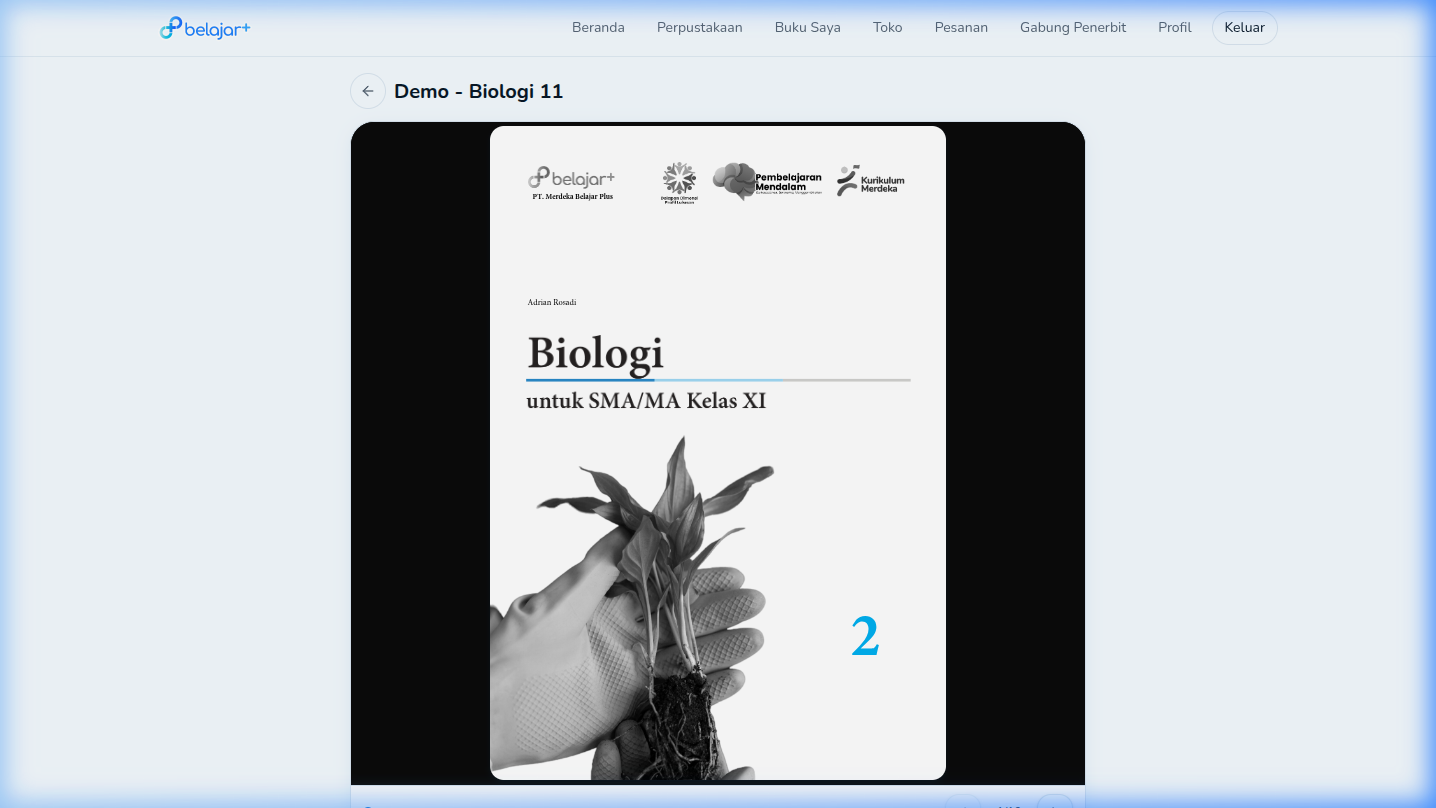
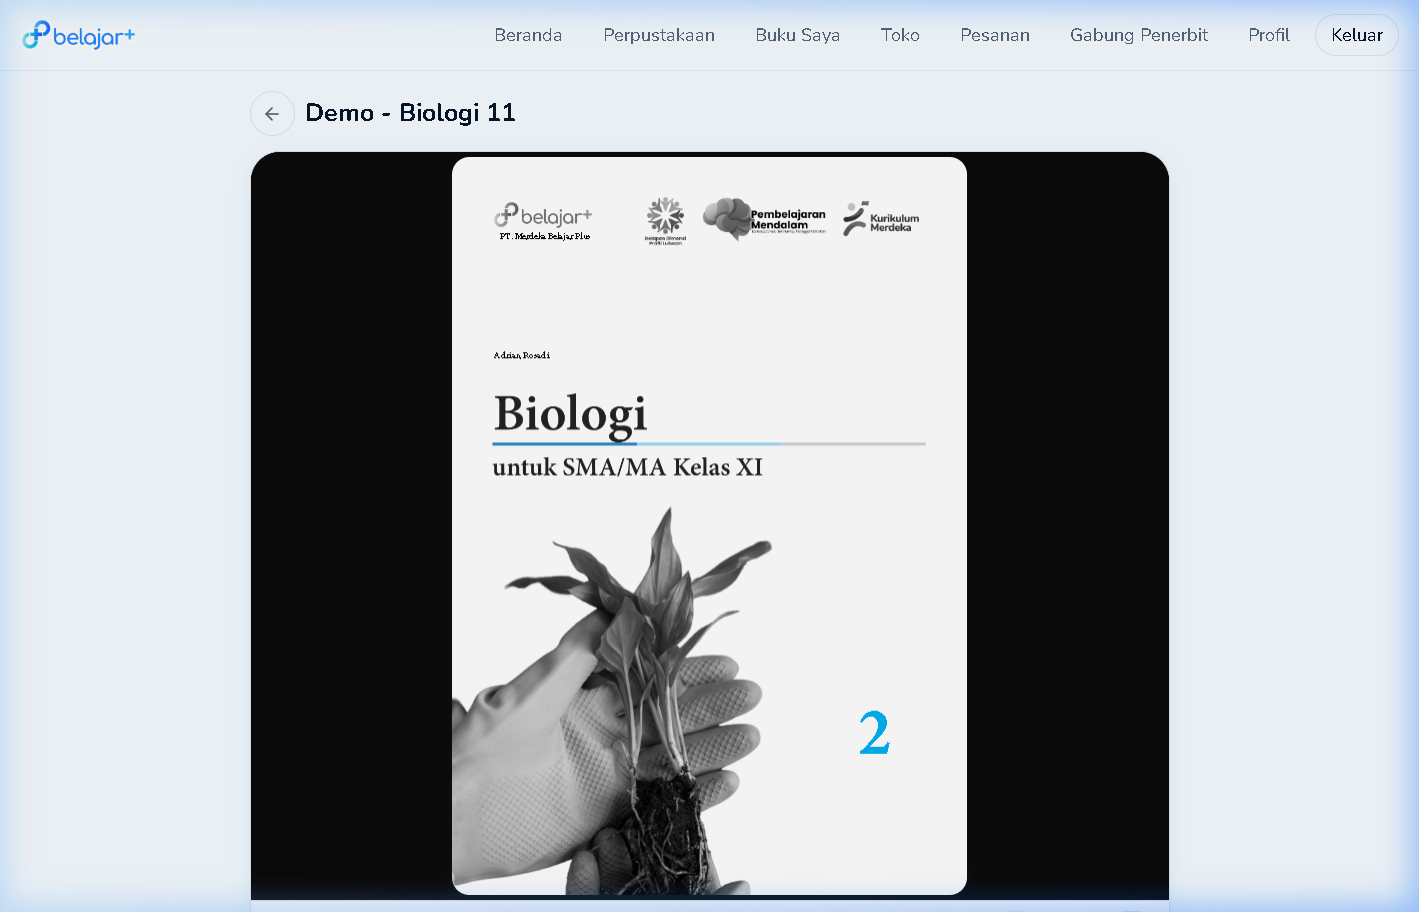
feat: complete student tutorial deep dive with bug warnings and screenshots

Changed region(s): [[0.0, 0.0, 1.0, 1.0], [0.5891, 0.7426, 0.6202, 0.8354]]

diff --git a/index.html b/index.html
@@ -317,165 +317,91 @@
           </div>
           
 <div class="step" data-step="4">
-            <div class="step-number">04</div>
-            <div class="step-content">
-              <div class="step-header">
-                <h3>Cari &amp; Filter Koleksi Buku Digital</h3>
-                <span class="step-tag">Perpustakaan</span>
+              <div class="step-number">04</div>
+              <div class="step-content">
+                <div class="step-header">
+                  <h3>Perpustakaan Digital &amp; E-Reader Interaktif</h3>
+                  <span class="step-tag">Perpustakaan</span>
+                </div>
+                <p>Klik menu <strong>"Perpustakaan"</strong> untuk mencari buku paket atau referensi. Gunakan kotak pencarian, atau filter berdasarkan Jenjang dan Mata Pelajaran.</p>
+                <div class="step-note" style="margin-bottom: 1rem;">
+                  dY"O <strong>Bug Report:</strong> Saat klik "Jelajahi &amp; filter" dari hasil pencarian, parameter query text seringkali hilang/reset. Sebaiknya gunakan filter dari sidebar langsung.
+                </div>
+                <p>Klik sampul buku untuk melihat detail dan sinopsis, lalu klik <strong>"Baca Buku"</strong> untuk membuka E-Reader. Di dalam E-Reader, kamu bisa membalik halaman secara mulus dan menandai halaman (bookmark).</p>
               </div>
-              <p>Klik menu <strong>"Perpustakaan"</strong> di navigation bar atas. Gunakan kolom pencarian atau filter sidebar kiri untuk menyaring buku berdasarkan Jenjang (Kelas 10, 11, 12) dan Mata Pelajaran.</p>
-              <ul class="step-list">
-                <li><strong>Filter Jenjang</strong> — Saring buku sesuai tingkatan kelasmu</li>
-                <li><strong>Filter Mapel</strong> — Cari buku spesifik (Biologi, Matematika, Antropologi, dll.)</li>
-              </ul>
-              <div class="step-note">
-                📌 Tag filter aktif membantu menyaring ketersediaan buku digital sekolah secara real-time.
+              <div class="step-visual" style="display: block; width: 100%;">
+                <div style="display: block; width: 100%; margin-bottom: 2rem; page-break-inside: avoid;">
+                  <img src="assets/library_search.png" class="screenshot-img" alt="Pencarian Perpustakaan" style="display: block; width: 100%; height: auto; box-shadow: 0 4px 12px rgba(0,0,0,0.1); border-radius: 8px;" />
+                </div>
+                <div class="html2pdf__page-break"></div>
+                <div style="display: block; width: 100%; margin-bottom: 2rem; page-break-inside: avoid;">
+                  <div style="font-weight: bold; margin-bottom: 0.5rem; color: var(--text-dark);">Tampilan E-Reader:</div>
+                  <img src="assets/book_reader.png" class="screenshot-img" alt="E-Reader BelajarPlus" style="display: block; width: 100%; height: auto; box-shadow: 0 4px 12px rgba(0,0,0,0.1); border-radius: 8px;" />
+                </div>
               </div>
             </div>
-            <div class="step-visual">
-              <img src="assets/search_filter.png" class="screenshot-img" alt="Filter Buku Digital Siswa" />
+
+            <div class="step" data-step="5">
+              <div class="step-number">05</div>
+              <div class="step-content">
+                <div class="step-header">
+                  <h3>Manajemen Koleksi Buku Saya</h3>
+                  <span class="step-tag">Koleksi Siswa</span>
+                </div>
+                <p>Masuk ke menu <strong>"Buku Saya"</strong> untuk melihat buku-buku yang sedang kamu pinjam, ditugaskan oleh guru, atau dalam antrean peminjaman (jika lisensi sekolah penuh).</p>
+                <div class="step-note">
+                  dY' <strong>Bug Report:</strong> Terkadang angka jumlah buku di tab atas tidak sinkron dengan jumlah list buku di bawahnya.
+                </div>
+              </div>
+              <div class="step-visual" style="display: block; width: 100%; page-break-inside: avoid;">
+                <img src="assets/my_books_list.png" class="screenshot-img" alt="Menu Buku Saya" style="display: block; width: 100%; height: auto; box-shadow: 0 4px 12px rgba(0,0,0,0.1); border-radius: 8px;" />
+              </div>
+            </div>
+
+            <div class="step" data-step="6">
+              <div class="step-number">06</div>
+              <div class="step-content">
+                <div class="step-header">
+                  <h3>Kelas &amp; Pengerjaan Ujian (LJD)</h3>
+                  <span class="step-tag">Penugasan &amp; Ujian</span>
+                </div>
+                <p>Di dalam kelas yang kamu ikuti, kamu bisa memantau Pengumuman, Sumber Belajar (modul wajib dari guru), dan Penugasan. Klik tab <strong>Aktivitas Belajar</strong> untuk melihat dan memulai Tryout, Latihan, atau UTS.</p>
+                <div class="step-note">
+                  dY"S <strong>Bug Kritis:</strong> Jika guru menugaskan lembar latihan tanpa soal (0 soal), tombol mulai akan mengakibatkan sistem <strong>Infinite Loading (Macet/Stuck)</strong> tanpa batas! Jangan refresh halaman, langsung kembali ke dashboard.
+                </div>
+              </div>
+              <div class="step-visual" style="display: block; width: 100%; page-break-inside: avoid;">
+                <img src="assets/assignment_list.png" class="screenshot-img" alt="Detail Kelas dan Ujian" style="display: block; width: 100%; height: auto; box-shadow: 0 4px 12px rgba(0,0,0,0.1); border-radius: 8px;" />
+              </div>
+            </div>
+
+            <div class="step" data-step="7">
+              <div class="step-number">07</div>
+              <div class="step-content">
+                <div class="step-header">
+                  <h3>Profil, Toko &amp; Riwayat Pesanan</h3>
+                  <span class="step-tag">Akun &amp; Marketplace</span>
+                </div>
+                <p>Lengkapi profil kamu agar terhubung dengan absensi sekolah. Jika sekolah tidak memiliki lisensi, kamu bisa membeli paket/buku secara mandiri melalui menu <strong>Toko</strong>. Cek status pembelianmu di menu <strong>Pesanan Saya</strong>.</p>
+                <div class="step-note">
+                  dY' <strong>Isu Minor:</strong> Navigasi URL secara manual ke <code>/orders</code> akan melempar kamu kembali ke halaman login (redirection loop bug) walaupun kamu sudah masuk.
+                </div>
+              </div>
+              <div class="step-visual" style="display: block; width: 100%;">
+                <div style="display: block; width: 100%; margin-bottom: 2rem; page-break-inside: avoid;">
+                  <div style="font-weight: bold; margin-bottom: 0.5rem; color: var(--text-dark);">Toko &amp; Pesanan:</div>
+                  <img src="assets/orders_history.png" class="screenshot-img" alt="Riwayat Pesanan" style="display: block; width: 100%; height: auto; box-shadow: 0 4px 12px rgba(0,0,0,0.1); border-radius: 8px; margin-bottom: 1.5rem;" />
+                  <img src="assets/store_page.png" class="screenshot-img" alt="Toko BelajarPlus" style="display: block; width: 100%; height: auto; box-shadow: 0 4px 12px rgba(0,0,0,0.1); border-radius: 8px;" />
+                </div>
+                <div class="html2pdf__page-break"></div>
+                <div style="display: block; width: 100%; margin-bottom: 2rem; page-break-inside: avoid;">
+                  <div style="font-weight: bold; margin-bottom: 0.5rem; color: var(--text-dark);">Profil Saya:</div>
+                  <img src="assets/user_profile.png" class="screenshot-img" alt="Profil Pengguna" style="display: block; width: 100%; height: auto; box-shadow: 0 4px 12px rgba(0,0,0,0.1); border-radius: 8px;" />
+                </div>
+              </div>
             </div>
           </div>
-
-          <div class="step" data-step="5">
-            <div class="step-number">05</div>
-            <div class="step-content">
-              <div class="step-header">
-                <h3>Pinjam Buku Digital Sekolah</h3>
-                <span class="step-tag">Peminjaman Gratis</span>
-              </div>
-              <p>Klik tombol <strong>"Pinjam buku"</strong> pada kartu buku yang kamu butuhkan. Perhatikan indikator ketersediaan stok buku digital sekolahmu.</p>
-              <ul class="step-list">
-                <li>Badge <span class="badge-green">Tersedia</span> → Buku bisa langsung dipinjam gratis</li>
-                <li>Badge <span class="badge-red">Stok Habis</span> → Buku sedang dipinjam oleh siswa lain</li>
-              </ul>
-              <div class="step-note">
-                ⏰ Peminjaman buku memiliki batas durasi otomatis. Buku akan kembali ke rak secara otomatis setelah masa pinjam berakhir.
-              </div>
-            </div>
-            <div class="step-visual">
-              <img src="assets/book_detail.png" class="screenshot-img" alt="Detail Peminjaman Buku Siswa" />
-            </div>
-          </div>
-
-          <div class="step" data-step="6">
-            <div class="step-number">06</div>
-            <div class="step-content">
-              <div class="step-header">
-                <h3>Baca via Interactive Book Reader</h3>
-                <span class="step-tag">Fitur Membaca</span>
-              </div>
-              <p>Setelah meminjam, klik <strong>"Baca"</strong> untuk membuka reader digital BelajarPlus. Nikmati fitur navigasi modern langsung di browser tanpa perlu instalasi aplikasi tambahan.</p>
-              <ul class="step-list">
-                <li>Gunakan <strong>☰ Daftar Isi</strong> untuk melompat langsung ke Bab pelajaran</li>
-                <li>Pengaturan <strong>A+ / A−</strong> untuk memperbesar/memperkecil teks</li>
-                <li>Mode <strong>Fullscreen (⛶)</strong> agar membaca lebih fokus</li>
-              </ul>
-              <div class="step-note">📖 Kamu juga bisa mencoba simulasi reader di bagian bawah halaman ini!</div>
-            </div>
-            <div class="step-visual">
-              <img src="assets/book_reader.png" class="screenshot-img" alt="Book Reader Digital Siswa" />
-            </div>
-          </div>
-
-          <div class="step" data-step="7">
-            <div class="step-number">07</div>
-            <div class="step-content">
-              <div class="step-header">
-                <h3>Akses Tugas &amp; Kuis Kelas Saya</h3>
-                <span class="step-tag">Penugasan Guru</span>
-              </div>
-              <p>Buka tautan kelas kamu (misal: <code>/classes/922a...</code>) lalu klik tab <strong>"Penugasan"</strong> untuk melihat latihan, kuis, atau Tryout TKA yang ditugaskan oleh guru pengajar.</p>
-              <ul class="step-list">
-                <li>Periksa <strong>Tenggat Pengumpulan</strong> (Deadline) tugas</li>
-                <li>Baca instruksi khusus yang diberikan oleh guru</li>
-                <li>Klik tombol <strong>"Kerjakan"</strong> untuk memulai latihan</li>
-              </ul>
-              <div class="step-note">
-                📝 <strong>Penting:</strong> Pastikan kamu sudah meminjam buku acuan tugas di perpustakaan agar akses soal latihan terbuka!
-              </div>
-            </div>
-            <div class="step-visual">
-              <img src="assets/class_assignment.png" class="screenshot-img" alt="Penugasan Kelas Siswa" />
-            </div>
-          </div>
-
-          <div class="step" data-step="8">
-            <div class="step-number">08</div>
-            <div class="step-content">
-              <div class="step-header">
-                <h3>Isi &amp; Kirim Lembar Jawab Digital (LJD)</h3>
-                <span class="step-tag">Ujian Real-time</span>
-              </div>
-              <p>Pada tampilan Lembar Jawab Digital (LJD), pilih opsi jawaban untuk tiap nomor soal. Sistem otomatis memantau waktu dan indikator kejujuran (anti-cheat tab focus).</p>
-              <ul class="step-list">
-                <li>Isikan semua jawaban sebelum timer habis</li>
-                <li>Klik <strong>"Kirim lembar jawaban"</strong> setelah selesai meninjau</li>
-                <li>Skor dan rekapitulasi nilai langsung terkirim otomatis ke guru</li>
-              </ul>
-              <div class="step-note">
-                🏆 Nilai persentase ketuntasan dan analisis kompetensi akan langsung muncul di layar setelah dikirim.
-              </div>
-            </div>
-            <div class="step-visual">
-              <img src="assets/assignment_result.png" class="screenshot-img" alt="Hasil Nilai Lembar Jawab Digital" />
-            </div>
-          </div>
-
-          <div class="step" data-step="9">
-            <div class="step-number">09</div>
-            <div class="step-content">
-              <div class="step-header">
-                <h3>Kelola Rak "Buku Saya"</h3>
-                <span class="step-tag">Manajemen Pinjaman</span>
-              </div>
-              <p>Buka menu <strong>"Buku Saya"</strong> untuk melihat daftar buku yang sedang aktif dipinjam dan riwayat peminjaman yang telah selesai.</p>
-              <div class="step-note">
-                📚 Mengembalikan buku tepat waktu membantu teman sekelasmu mendapatkan akses peminjaman buku yang sama.
-              </div>
-            </div>
-            <div class="step-visual">
-              <img src="assets/my_books.png" class="screenshot-img" alt="Buku Saya Akun Siswa" />
-            </div>
-          </div>
-
-          <div class="step" data-step="10">
-            <div class="step-number">10</div>
-            <div class="step-content">
-              <div class="step-header">
-                <h3>Pembelian Buku Tambahan di Toko</h3>
-                <span class="step-tag">Toko Digital</span>
-              </div>
-              <p>Jika memerlukan buku referensi pribadi di luar koleksi perpustakaan sekolah, kamu dapat membelinya melalui menu <strong>"Toko"</strong> dan memantau statusnya di menu <strong>"Pesanan"</strong>.</p>
-              <div class="step-note">
-                🛒 Buku yang dibeli dari Toko menjadi milik permanen di akunmu tanpa batas waktu peminjaman.
-              </div>
-            </div>
-            <div class="step-visual">
-              <img src="assets/shop.png" class="screenshot-img" alt="Toko Buku Digital Siswa" />
-            </div>
-          </div>
-
-          <div class="step" data-step="11">
-            <div class="step-number">11</div>
-            <div class="step-content">
-              <div class="step-header">
-                <h3>Pengaturan Profil Siswa</h3>
-                <span class="step-tag">Data Diri</span>
-              </div>
-              <p>Periksa data diri, asal sekolah, pembagian kelas aktif, dan perbarui nomor WhatsApp terhubung di menu <strong>"Profil"</strong> untuk menerima notifikasi penugasan dari guru.</p>
-              <div class="step-note">
-                👤 Data sekolah dan kelas dikelola secara terpusat oleh admin sekolah.
-              </div>
-            </div>
-            <div class="step-visual">
-              <img src="assets/profile.png" class="screenshot-img" alt="Profil Akun Siswa" />
-            </div>
-          </div>
-        </div>
-
-        <!-- ==================== 2. CONTAINER PANDUAN AKUN GURU ==================== -->
-        <div class="role-steps-container" id="steps-guru">
+          <div class="role-steps-container" id="steps-guru">
           <div class="role-section-header">
             <div class="rsh-left">
               <div class="rsh-title">👨🏫 Panduan Runtut Akun Guru / Pengajar</div>

diff --git a/app.js b/app.js
@@ -334,7 +334,7 @@ window.downloadRolePDF = async function(role) {
   window.isGeneratingPDF = true;
 
   const roleTitles = {
-    siswa: 'AKUN SISWA / PELAJAR (11 LANGKAH OPERASIONAL LENGKAP)',
+    siswa: 'AKUN SISWA / PELAJAR (7 LANGKAH OPERASIONAL LENGKAP)',
     guru: 'AKUN GURU / PENGAJAR (6 LANGKAH MANAJEMEN PEMBELAJARAN)',
     kepsek: 'AKUN KEPALA SEKOLAH & ADMIN (6 LANGKAH MANAJEMEN EKOSISTEM)'
   };
